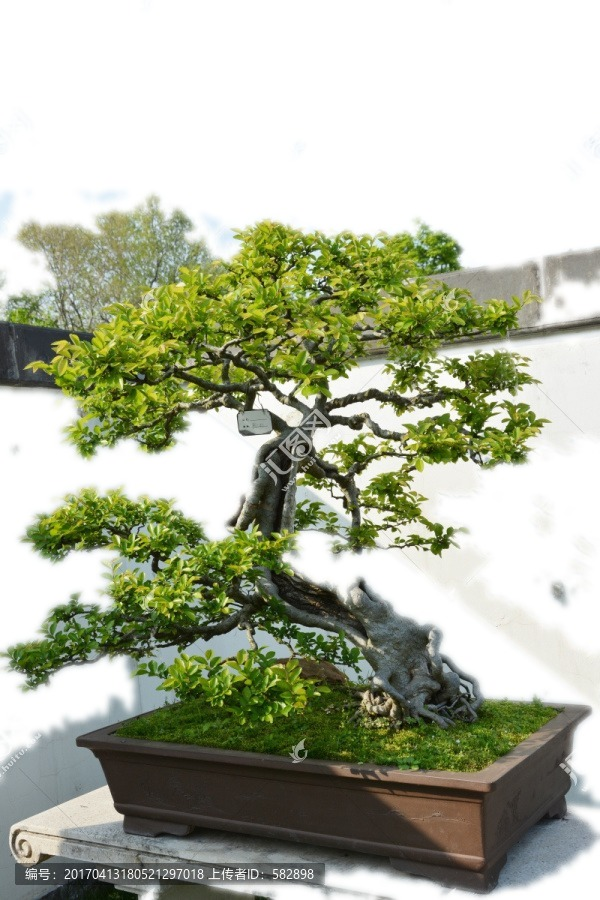
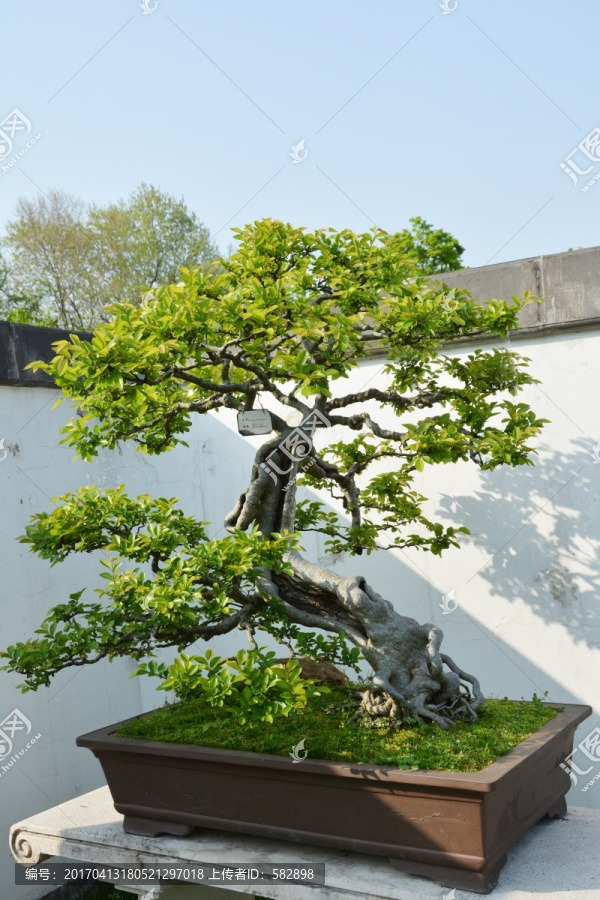
feat: pre-built tree cutouts + website fetch fallback
- Generate transparent PNG cutouts for all 10 trees locally
  (bypasses unreliable BiRefNet from China entirely)
- Add website container fetch fallback in tryLoadCachedCutout()
  so server can load pre-built cutouts from website public dir
- Restore original tree photos (cutouts handle transparency)

Color-key removal for white-bg trees (HY0002,HY0006-HY0009)
Center-mask approach for outdoor-bg trees (HY0001,HY0003-HY0005,HY0010)

diff --git a/apps/server/src/services/tree-composite.service.ts b/apps/server/src/services/tree-composite.service.ts
@@ -102,6 +102,29 @@ async function tryLoadCachedCutout(imageUrl: string): Promise<Buffer | null> {
     }
   }
 
+  // In Docker: fetch pre-built cutouts from website container
+  const cutoutUrls = [
+    `http://website:3000/images/trees/cutouts/${filename}`,
+    `http://nginx:80/images/trees/cutouts/${filename}`,
+  ];
+  for (const url of cutoutUrls) {
+    try {
+      const res = await fetch(url, { signal: AbortSignal.timeout(5000) });
+      if (res.ok) {
+        const buf = Buffer.from(await res.arrayBuffer());
+        if (buf.length > 1000) {
+          console.log(`[TreeComposite] Cache HIT (website): ${treeId} (${(buf.length / 1024).toFixed(0)}KB)`);
+          // Save locally for faster access next time
+          try {
+            fs.mkdirSync(SERVER_CUTOUTS_DIR, { recursive: true });
+            fs.writeFileSync(path.join(SERVER_CUTOUTS_DIR, filename), buf);
+          } catch {}
+          return buf;
+        }
+      }
+    } catch {}
+  }
+
   console.log(`[TreeComposite] Cache MISS: ${treeId}`);
   return null;
 }
